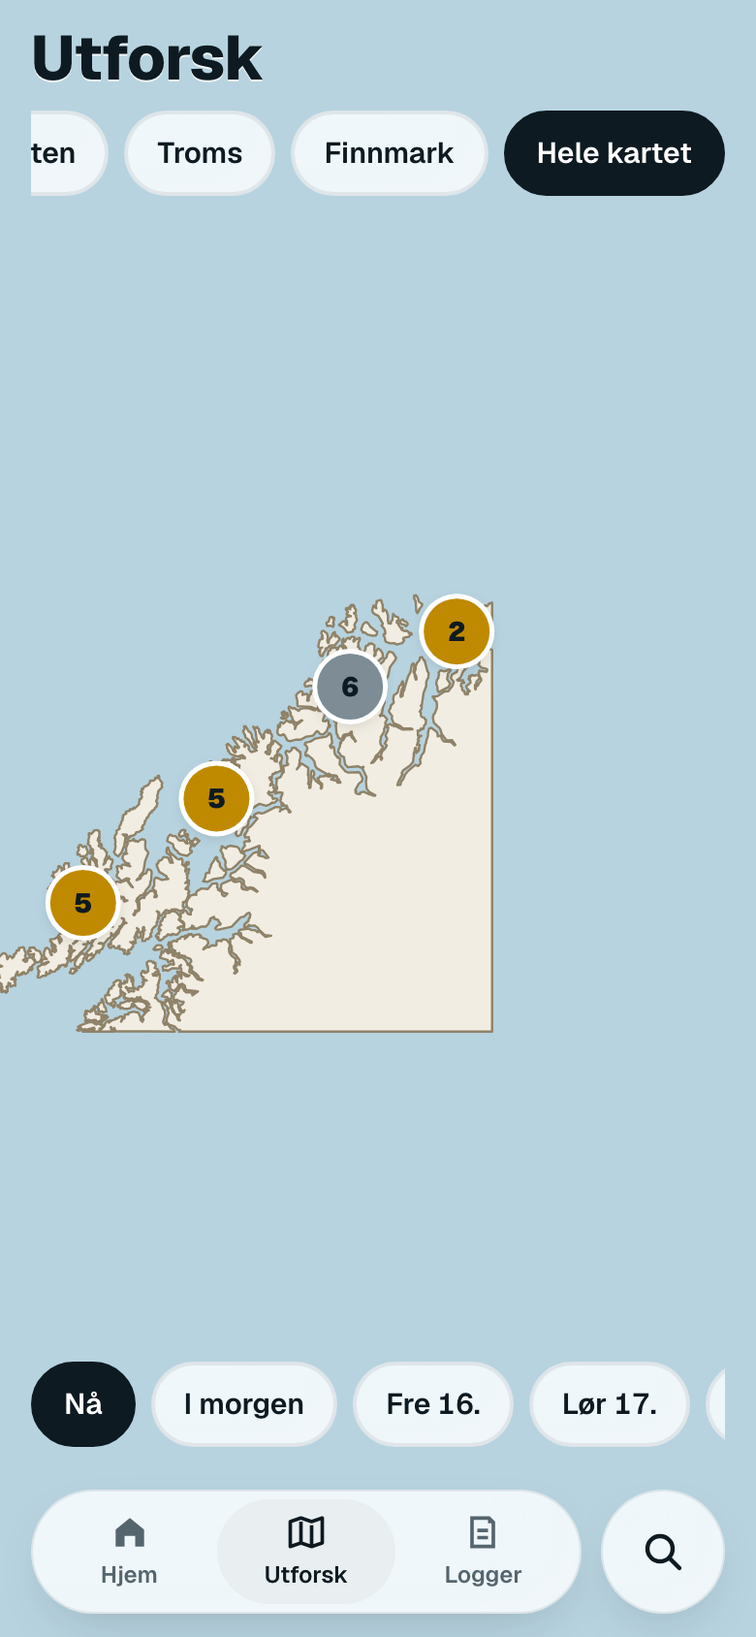
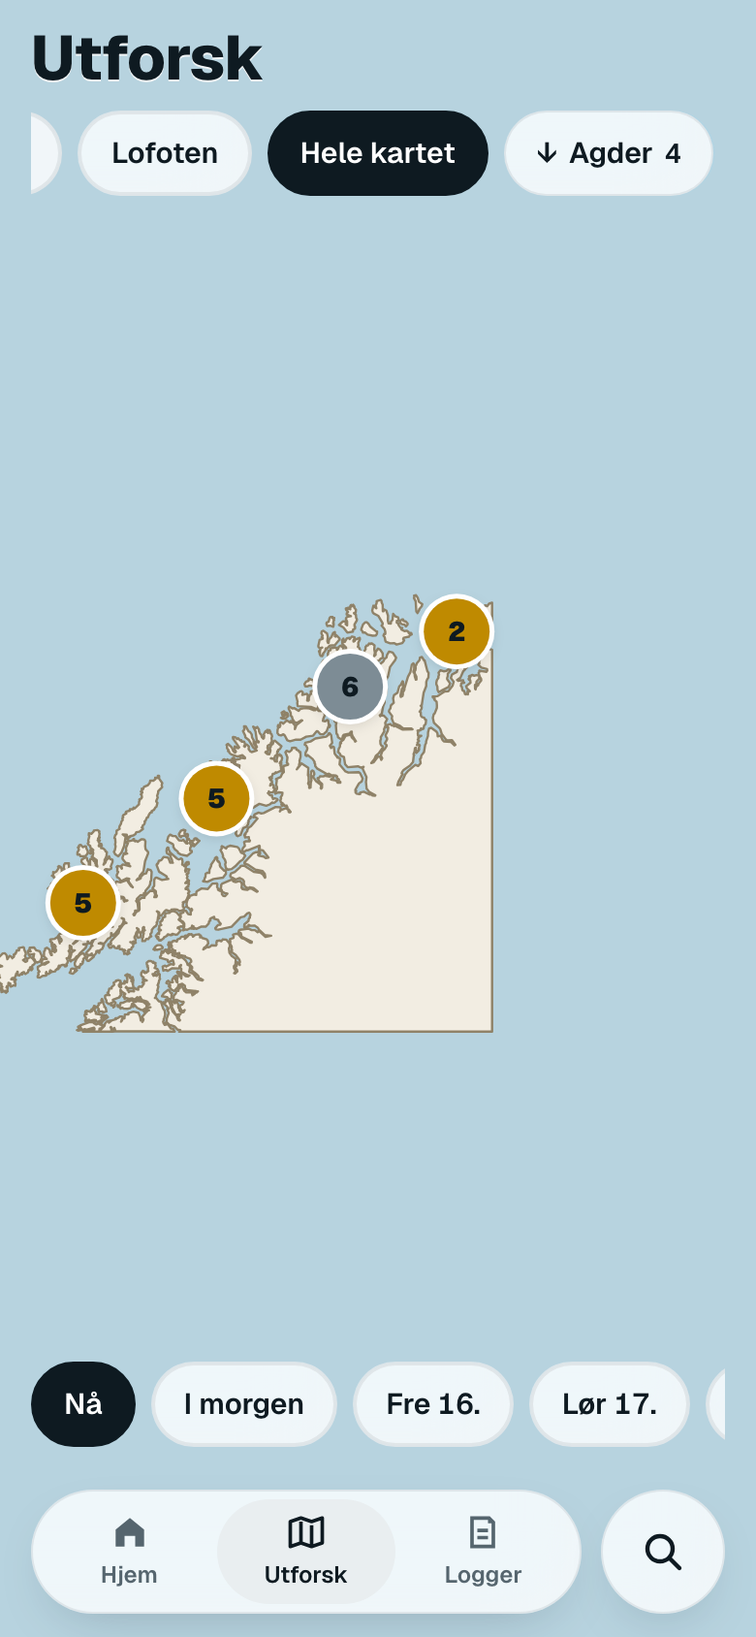
Tillegg 2: Theodors tre rettelser - valgt regionbrikke synlig (nord til sør), «Flatt»/«–» i stedet for 0,0, dagen som er over vises ikke
(a) valgt brikke rulles inn i brikkeraden; syntetiske regioner i spots.json-rekkefølge (nord til sør).
(b) tabellen: mangler → «–», ekte 0 → ordet i grå rute; grafens søyletall aldri 0,0.
(c) publish.py: dag 0 «over» når alle timene igjen er mørke og i morgen har lys (mørketid og hull som før),
    lys_til, 8 døgn i oversikten; appen starter ukeradene/tabellen på i morgen, dagbrikkene i Utforsk etter dato.
Fysikk-kontrollør: IKKE GODKJENT (dagbrikkene, «over» ved hull) → rettet → GODKJENT.

Changed region(s): [[0.2769, 0.0616, 0.9538, 0.1232], [0.0308, 0.0616, 0.2462, 0.1232]]

diff --git a/docs/js/ui.js b/docs/js/ui.js
@@ -63,26 +63,32 @@
     if(!h || h.wind_speed==null) return null;
     return `${nf0.format(h.wind_speed)} m/s${h.wind_type ? " " + windLabel(h) : ""}`;
   }
+  // Dagens lys er over (Theodor 15.10, PR #12 punkt c): «over» fra henteren, eller klokka har passert
+  // siste lyse time (lys_til) siden oversikten ble laget. Da vises ingenting for dagen.
+  const dayOver = (d)=> !!d && (d.status==="over" || (!!d.lys_til && Date.now() >= new Date(d.lys_til).getTime() + 36e5));
+  const UKE_DAGER = 7;
   function weekDays(){
-    // de 7 døgnene oversikten har sammendrag for (fra i dag, norsk tid)
+    // 7 døgn fra i dag (norsk tid); er dagens lys over for alle spots, starter ukeradene på i morgen
     const base = (DATA.spots[0] && DATA.spots[0].dager) || [];
-    return base.map((d, k)=>{ const at = new Date(d.d + "T11:00:00Z"); return {key: d.d, kort: fmtDayShort.format(at).replace(/\.$/, "").slice(0, 2).toLowerCase(), dato: at.getUTCDate(), lang: fmtDay.format(at), idag: k===0}; });
+    const skip = base.length > UKE_DAGER && DATA.spots.every(s=> dayOver((s.dager || [])[0])) ? 1 : 0;
+    return base.slice(skip, skip + UKE_DAGER).map((d, j)=>{ const k = j + skip; const at = new Date(d.d + "T11:00:00Z"); return {key: d.d, kort: fmtDayShort.format(at).replace(/\.$/, "").slice(0, 2).toLowerCase(), dato: at.getUTCDate(), lang: fmtDay.format(at), idag: k===0}; });
   }
   function dayBest(s, key){
-    // dagssammendraget fra publish.best_hour(): «miss» = tallet/lyset mangler, «dark» = mørkt hele dagen
+    // dagssammendraget fra publish.best_hour(): «miss» = tallet/lyset mangler, «dark» = mørkt hele dagen, «over» = dagens lys er over
     const d = (s.dager || []).find(x=>x.d===key);
+    if(dayOver(d)) return {cls:"over", st:null, h:null, t:null};
     if(d && d.status==="dark") return {cls:"dark", st:null, h:null, t:null};   // før !d.h - en mørk dag har ingen time
     if(!d || d.status==="miss" || !d.h) return {cls:"miss", st:null, h:null, t:null};
     const st = stars(d.h);
     return {cls:`r-${min5(st)}`, st, h:d.h, t:d.h.t, start:d.start || d.h.t, slutt:d.slutt || d.h.t, lo:d.lo, hi:d.hi};
   }
   function ukeHtml(s, days, withLetters){
-    const cells = days.map(d=>{ const b = dayBest(s, d.key); const n = b.st!=null && b.st>=1 ? b.st : ""; const title = b.cls==="miss" ? `${d.lang}: mangler data` : b.cls==="dark" ? `${d.lang}: mørkt` : `${d.lang}: ${b.st} ${b.st===1?"stjerne":"stjerner"}`; return `<i class="${b.cls}" title="${esc(title)}">${n}</i>`; }).join("");
-    const letters = withLetters ? days.map((d, k)=>`<b class="${k===0?"idag":""}">${esc(d.kort)}</b>`).join("") : "";
+    const cells = days.map(d=>{ const b = dayBest(s, d.key); const n = b.st!=null && b.st>=1 ? b.st : ""; const title = b.cls==="over" ? `${d.lang}: dagens lys er over` : b.cls==="miss" ? `${d.lang}: mangler data` : b.cls==="dark" ? `${d.lang}: mørkt` : `${d.lang}: ${b.st} ${b.st===1?"stjerne":"stjerner"}`; return `<i class="${b.cls}" title="${esc(title)}">${n}</i>`; }).join("");
+    const letters = withLetters ? days.map((d, k)=>`<b class="${d.idag?"idag":""}">${esc(d.kort)}</b>`).join("") : "";
     return `<span class="uke" aria-hidden="true">${letters}${cells}</span>`;
   }
   function ukeAria(s, days){
-    return days.map(d=>{ const b = dayBest(s, d.key); return b.cls==="miss" ? `${cap(d.lang)} mangler data` : b.cls==="dark" ? `${cap(d.lang)} mørkt` : `${cap(d.lang)} ${b.st} ${b.st===1?"stjerne":"stjerner"}`; }).join(", ");
+    return days.map(d=>{ const b = dayBest(s, d.key); return b.cls==="over" ? `${cap(d.lang)}: dagens lys er over` : b.cls==="miss" ? `${cap(d.lang)} mangler data` : b.cls==="dark" ? `${cap(d.lang)} mørkt` : `${cap(d.lang)} ${b.st} ${b.st===1?"stjerne":"stjerner"}`; }).join(", ");
   }
   function bestNow(s){ const h = naaOf(s); return {st: stars(h), hh: h ? (h.surf_height||0) : 0}; }
   const byRatingNow = (a, b)=>{ const x = bestNow(a), y = bestNow(b); return y.st - x.st || y.hh - x.hh || a.name.localeCompare(b.name, "nb"); };
@@ -101,6 +107,7 @@
     let best = null;
     for(const s of spots) for(const [k, d] of (s.dager || []).slice(0, 3).entries()){
       if(d.status!=="ok" || !d.h || stars(d.h) < 1) continue;
+      if(new Date(d.slutt || d.h.t).getTime() + 36e5 <= Date.now()) continue;   // vinduet er over siden oversikten ble laget (fysikk-kontrollør 15.10)
       const c = {s, d, st: stars(d.h), hh: d.h.surf_height||0, k};
       if(!best || c.st > best.st || (c.st===best.st && c.hh > best.hh)) best = c;
     }
@@ -108,7 +115,7 @@
   }
   function nextPossibility(spots){
     let first = null;
-    for(const s of spots) for(const d of (s.dager || [])){ if(d.status==="ok" && d.h && stars(d.h) >= 1){ const t = new Date(d.h.t).getTime(); if(!first || t < first.t) first = {s, d, t}; break; } }
+    for(const s of spots) for(const d of (s.dager || [])){ if(d.status==="ok" && d.h && stars(d.h) >= 1 && new Date(d.slutt || d.h.t).getTime() + 36e5 > Date.now()){ const t = new Date(d.h.t).getTime(); if(!first || t < first.t) first = {s, d, t}; break; } }
     return first;
   }
   function nextBest(spots, exclude, n){
@@ -172,7 +179,7 @@
     const sorted = [...g.spots].sort(byRatingNow);
     const shown = all ? sorted : sorted.slice(0, 5);
     const id = "reg-" + norm(g.region).replace(/[^a-z0-9]+/g, "-");
-    return `<section class="gruppe" id="${id}"><div class="gruppe-topp"><h3>${esc(g.region)}<small>${n} ${n===1?"spot":"spots"}</small></h3><span class="uke" aria-hidden="true">${days.map((d, k)=>`<b class="${k===0?"idag":""}">${esc(d.kort)}</b>`).join("")}</span></div>
+    return `<section class="gruppe" id="${id}"><div class="gruppe-topp"><h3>${esc(g.region)}<small>${n} ${n===1?"spot":"spots"}</small></h3><span class="uke" aria-hidden="true">${days.map(d=>`<b class="${d.idag?"idag":""}">${esc(d.kort)}</b>`).join("")}</span></div>
       <div class="rader">${shown.map(s=>radHtml(s, days)).join("")}</div>
       ${!all ? `<button type="button" class="ghost visalle" data-region="${esc(g.region)}">Vis alle ${n}</button>` : ""}</section>`;
   }
@@ -185,7 +192,7 @@
   function tabellHtml(days){
     // nett: regionfilter over tabellen, grupper per region med «Vis alle» per gruppe, overskriftsraden står fast
     const filt = S.tabellRegion;
-    const head = `<thead><tr><th>Spot</th><th>Nå</th>${days.map((d, k)=>`<th class="dag">${k===0 ? "I dag" : esc(cap(d.kort))}<small>${d.dato}.</small></th>`).join("")}</tr></thead>`;
+    const head = `<thead><tr><th>Spot</th><th>Nå</th>${days.map(d=>`<th class="dag">${d.idag ? "I dag" : esc(cap(d.kort))}<small>${d.dato}.</small></th>`).join("")}</tr></thead>`;
     const body = groups().filter(g=> !filt || g.region===filt).map(g=>{
       const n = g.spots.length, all = S.visAlle[g.region] || n <= 8;
       const rows = [...g.spots].sort(byRatingNow).slice(0, all ? n : 5);
@@ -193,9 +200,15 @@
         rows.map(s=>{
           const h = naaOf(s), st = stars(h), oh = ordOgHoyde(h);
           const cells = days.map(d=>{ const b = dayBest(s, d.key);
+            if(b.cls==="over") return `<td class="c"><span class="celle over" title="${esc(d.lang)}: dagens lys er over"></span></td>`;
             if(b.cls==="miss") return `<td class="c"><span class="celle miss" title="${esc(d.lang)}: mangler data">–</span></td>`;
             if(b.cls==="dark") return `<td class="c"><span class="celle miss" title="${esc(d.lang)}: mørkt">–</span></td>`;
-            const hv = b.hi!=null ? b.hi : (b.h && b.h.surf_height!=null ? b.h.surf_height : null); const hh = hv!=null ? nf1.format(hv) : "–";
+            // grunnregelen (PR #12 punkt b): tallet mangler → «–»; ekte 0 (flatt, treffer ikke …) → ordet i grå rute, aldri «0,0»
+            const v = b.hi!=null && b.hi > 0 ? {a: b.hi} : (window.Spot ? Spot.visHoyde(b.h) : (b.h && b.h.surf_height!=null ? {a: b.h.surf_height} : null));
+            // som Surf-kortet på spotsiden: «–» bare når surf_height mangler; kjent høyde uten pålitelig tall (regel (c): flatt, treffer ikke) → ordet
+            if(!v && (!b.h || b.h.surf_height==null)) return `<td class="c"><span class="celle miss" title="${esc(d.lang)}: mangler høyde">–</span></td>`;
+            if(!v || (!(v.a > 0) && !(b.st >= 1))){ const ord = ratingWord(b.h); return `<td class="c"><span class="celle null" title="${esc(`${d.lang}: ${ord}`)}">${esc(ord)}</span></td>`; }
+            const hh = nf1.format(v.a);
             return `<td class="c"><span class="celle r-${min5(b.st)}" title="${esc(`${d.lang}: ${b.st} ${b.st===1?"stjerne":"stjerner"}, ${hh} m`)}">${esc(hh)}${b.st>=1 ? `<small>★${b.st}</small>` : ""}</span></td>`; }).join("");
           return `<tr class="s r-${min5(st)}" data-spot="${esc(s.id)}" tabindex="0" aria-label="${esc(`Åpne ${s.name}: ${oh.ord}${oh.hoyde ? ", " + oh.hoyde + " m" : ""}. ${ukeAria(s, days)}`)}"><td class="nm"><b>${esc(s.name)}</b><small>${esc(s.area||"")}</small></td><td class="na r-${min5(st)}"><span class="ord">${esc(oh.ord)}</span>${oh.hoyde ? `<span class="num">${esc(oh.hoyde)} m</span>` : ""}</td>${cells}</tr>`;
         }).join("");
@@ -222,6 +235,8 @@
     $$(".visalle", root).forEach(b=> b.onclick = ()=>{ S.visAlle[b.dataset.region] = true; renderHome(); });
     $$("[data-region]", root).forEach(b=>{ if(b.classList.contains("chip")) b.onclick = ()=>{ setRegion(b.dataset.region); renderHome(); }; });
     $$("[data-tabellregion]", root).forEach(b=> b.onclick = ()=>{ S.tabellRegion = b.dataset.tabellregion || null; renderHome(); });
+    // valgt regionbrikke alltid synlig (PR #12 punkt a): rull brikkeraden sidelengs, aldri siden
+    $$(".regionvelger", root).forEach(row=>{ const c = row.querySelector('[aria-pressed="true"]'); if(c && row.scrollWidth > row.clientWidth){ row.scrollLeft = Math.max(0, c.offsetLeft - row.offsetLeft - (row.clientWidth - c.offsetWidth) / 2); } });
     $$("table.spots tr.s", root).forEach(tr=>{ tr.onclick = ()=> openSpot(tr.dataset.spot); tr.onkeydown = (e)=>{ if(e.key==="Enter" || e.key===" "){ e.preventDefault(); openSpot(tr.dataset.spot); } }; });
   }
 

diff --git a/docs/js/utforsk.js b/docs/js/utforsk.js
@@ -15,7 +15,12 @@
   const min5 = (n)=> Math.min(5, n||0);
 
   function dayChips(){
-    return H().weekDays().map((d, k)=>({key: k===0 ? null : d.key, label: k===0 ? "Nå" : k===1 ? "I morgen" : `${cap(fmtWd.format(new Date(d.key + "T11:00:00Z")).replace(/\.$/, ""))} ${d.dato}.`, lang: d.lang}));
+    // «Nå» er alltid første brikke; «I morgen» og datoene settes ut fra datoen, ikke posisjonen - etter mørket
+    // starter weekDays() på i morgen (PR #12 punkt c; fysikk-kontrollør 15.10)
+    const days = H().weekDays(), base = (DATA.spots[0] && DATA.spots[0].dager) || [];
+    const tomorrow = base[1] && base[1].d;
+    const out = days.length && days[0].idag ? [] : [{key: null, label: "Nå", lang: "nå"}];
+    return out.concat(days.map(d=>({key: d.idag ? null : d.key, label: d.idag ? "Nå" : d.key===tomorrow ? "I morgen" : `${cap(fmtWd.format(new Date(d.key + "T11:00:00Z")).replace(/\.$/, ""))} ${d.dato}.`, lang: d.lang})));
   }
   // verdi per spot for valgt dag: nå = nå-timen; ellers dagens beste dagslystime (publish.best_hour)
   function valueFor(s, dayKeyOrNull){
@@ -70,6 +75,7 @@
       + [...offBy.entries()].map(([k, ps])=>`<button type="button" class="chip dashed" data-off="${esc(k)}" aria-label="${esc(`${k}: ${ps.length} ${ps.length===1 ? "spot" : "spots"} utenfor kartet - vis lista`)}"><span aria-hidden="true">↓</span> ${esc(k)}${ps.length > 1 ? ` <span class="num">${ps.length}</span>` : ""}</button>`).join("");
     $$("#utforskChips [data-view]").forEach(b=> b.onclick = ()=>{ S.utforskView = b.dataset.view || null; S.picked = null; renderChips(); const e = viewExtent(); if(e) Kart.setExtent(e, true); Kart.setSelected(null); renderKort(); renderListe(); });
     $$("#utforskChips [data-off]").forEach(b=> b.onclick = ()=>{ S.offRegion = b.dataset.off; renderKort(); });
+    { const row = $("#utforskChips"), c = row && row.querySelector('[aria-pressed="true"]'); if(c && row.scrollWidth > row.clientWidth) row.scrollLeft = Math.max(0, c.offsetLeft - row.offsetLeft - (row.clientWidth - c.offsetWidth) / 2); }   // valgt brikke synlig (PR #12 punkt a)
     const chips = dayChips();
     $("#dagChips").innerHTML = chips.map(c=>`<button type="button" class="chip" data-day="${c.key||""}" aria-pressed="${(S.utforskDay||"")===(c.key||"")}" aria-label="${esc(c.key ? cap(c.lang) : "Nå")}">${esc(c.label)}</button>`).join("");
     $$("#dagChips .chip").forEach(b=> b.onclick = ()=>{ S.utforskDay = b.dataset.day || null; $$("#dagChips .chip").forEach(x=>x.setAttribute("aria-pressed", String(x===b))); Kart.redraw(); renderKort(); renderListe(); });

diff --git a/docs/css/ui.css b/docs/css/ui.css
@@ -187,6 +187,7 @@ h1,h2,h3{margin:0;font-family:var(--display);letter-spacing:-.01em}
 .uke i.r-0{background:transparent;color:transparent;box-shadow:inset 0 0 0 1px var(--line-strong)}
 .uke i.miss{background:transparent;color:transparent;border:1px dashed var(--line-strong)}
 .uke i.dark{background:transparent;color:transparent;box-shadow:inset 0 0 0 1px var(--line)}
+.uke i.over{background:transparent;color:transparent;box-shadow:none;border:0}
 .uke b{color:var(--muted);font-family:var(--body);font-size:0.6875rem;font-weight:600;height:1rem}
 .uke b.idag{color:var(--ink)}
 .stars .st.f{fill:var(--rc);stroke:var(--rc-ink);stroke-width:1;stroke-dasharray:none;opacity:.32}   /* tapt stjerne: dempet fyll, ikke stiplet (Theodor 15.10); aria sier «tapt på vind eller tidevann» */
@@ -472,6 +473,8 @@ h1,h2,h3{margin:0;font-family:var(--display);letter-spacing:-.01em}
   .celle small{font-size:0.6875rem}
   .celle.r-0{background:transparent;color:var(--ink);box-shadow:inset 0 0 0 1px var(--line-strong)}
   .celle.miss{background:transparent;color:var(--muted);border:1px dashed var(--line-strong)}
+  .celle.null{background:var(--sunken);color:var(--muted);font-family:var(--body);font-size:0.6875rem;font-weight:600;white-space:nowrap}
+  .celle.over{background:transparent;box-shadow:none}
   .utforskkort{position:relative;overflow:hidden;min-height:260px;padding:0;background:var(--sea)}
   .utforskkort .knapp{position:absolute;left:14px;bottom:14px}
   .utforskkort svg{width:100%;height:100%;display:block}

diff --git a/docs/js/spotgraf.js b/docs/js/spotgraf.js
@@ -120,7 +120,7 @@
       // tallet mangler (også for en «kjent» time med low_reason men uten høyde): stiplet, aldri en 0-søyle
       const miss = !known || h.surf_height==null;
       // tallet på valgt søyle følger regel (c) (Spot.visHoyde: blåst ut/stormsjø viser BarentsWatch-høyden) - samme tall som aria og topptekst
-      const vh = h ? Spot.visHoyde(h) : null; const tall = vh ? nf1.format(vh.b!=null ? vh.b : vh.a) : null;
+      const vh = h ? Spot.visHoyde(h) : null; const tv = vh ? (vh.b!=null ? vh.b : vh.a) : null; const tall = tv!=null && tv > 0 ? nf1.format(tv) : null;   // aldri «0,0» (PR #12 punkt b)
       const hs = h && h.surf_height!=null ? h.surf_height : 0, sets = h && h.surf_height_sets!=null ? Math.max(0, h.surf_height_sets - hs) : 0;
       const bar = !h ? "" : miss ? `<span class="b miss" style="height:3px"></span>`
         : `<span class="b r-${Math.min(5,st)}" style="height:${Math.max(hs>0?3:2, hs/scaleMax*H_PX).toFixed(1)}px">${sets>0 ? `<span class="sets" style="height:${(sets/scaleMax*H_PX).toFixed(1)}px"></span>` : ""}${c.i===selIdx && tall ? `<span class="tall">${tall}</span>` : ""}</span>`;

diff --git a/docs/sw.js b/docs/sw.js
@@ -4,7 +4,7 @@
 // hånd. Må stemme med filene, ellers oppdager ikke nettleseren at
 // sw.js-scriptet er likt som før og lar være å hente nytt innhold, sjøl om
 // siden er pushet (se CLAUDE.md sin arbeidsmåte og STATUS.md, 26.09-03.10.2026).
-const CACHE = "nordsurf-e4d7cc36fdb7";
+const CACHE = "nordsurf-845c929484b0";
 const SHELL = ["./", "index.html", "manifest.webmanifest", "icon.svg",
   "css/app.css", "css/kart.css",
   "js/strings.js", "js/wordmark.js", "js/explain.js", "js/app.js", "js/kart.js", "js/front.js", "js/auth.js",

diff --git a/fetcher/test_skalering_browser.py b/fetcher/test_skalering_browser.py
@@ -130,6 +130,19 @@ def main():
                 if mobile:
                     assert n_rows == min(troms, 5) or n_rows == troms, (n_rows, troms)
                     assert page.text_content("#viewHjem").count("Spots i Troms") == 1
+                # PR #12 punkt a: valgt regionbrikke synlig, rekkefølge som oversikt.regions (spots.json, nord til sør)
+                chip = page.evaluate("""() => { const row = document.querySelector('#viewHjem .regionvelger'); const c = row && row.querySelector('[aria-pressed="true"]');
+                    if(!c) return null; const r = row.getBoundingClientRect(), b = c.getBoundingClientRect();
+                    return {txt: c.textContent.trim(), inside: b.left >= r.left - 1 && b.right <= r.right + 1,
+                            order: [...row.querySelectorAll('.chip')].map(x => x.textContent.trim()).filter(t => t !== 'Alle')}; }""")
+                assert chip and (mobile and chip["txt"] == "Troms" or not mobile) and chip["inside"], f"valgt regionbrikke ikke synlig ({label}): {chip}"
+                assert chip["order"] == [r["name"] for r in overview["regions"]] and chip["order"][0] == "Finnmark", chip["order"]
+                # PR #12 punkt b/c: aldri «0,0» i ukerutene/tabellen; dagens lys er over kl. 22:10 → ingen «I dag»-kolonne
+                txt = page.evaluate("[...document.querySelectorAll('#viewHjem .uke i, #viewHjem .celle, #viewHjem .rad .na, #viewHjem td.na')].map(e => e.textContent.trim())")
+                assert not any(t in ("0,0", "0") or t.startswith("0,0") for t in txt), [t for t in txt if t.startswith("0")][:5]
+                heads = page.evaluate("[...document.querySelectorAll('#viewHjem table.spots thead th.dag, #viewHjem .gruppe-topp .uke b')].map(e => e.textContent.trim())")
+                assert heads and not any(h.startswith("I dag") for h in heads) and not page.query_selector("#viewHjem .uke b.idag, #viewHjem .uke i.over"), heads[:8]
+                print(f"PR #12 a-c ({label}): valgt brikke «{chip['txt']}» synlig, rekkefølge nord-sør, ingen «0,0», tabellen starter på i morgen etter mørket - OK")
                 shot("hjem")
                 # 8. nett-tabellen: regionfilter, «Vis alle», sticky
                 if not mobile:
@@ -165,6 +178,10 @@ def main():
                         const out = []; for(let i=0;i<els.length;i++) for(let j=i+1;j<els.length;j++){ const a = els[i].r, c = els[j].r;
                           if(a.left < c.right - 2 && a.right > c.left + 2 && a.top < c.bottom - 2 && a.bottom > c.top + 2) out.push([els[i].id, els[j].id]); } return out; }""")
                     assert not bad, f"overlappende merkelapper ({label}, {where}): {bad[:6]}"
+                # dagbrikkene etter mørket (T0 kl. 22:10): «Nå» først, så «I morgen» = dagen etter oversiktens første dag
+                dchips = page.evaluate("[...document.querySelectorAll('#dagChips .chip')].map(b => [b.textContent.trim(), b.dataset.day])")
+                d1 = overview["spots"][0]["dager"][1]["d"]
+                assert dchips[0] == ["Nå", ""] and dchips[1] == ["I morgen", d1] and len(dchips) == 8, dchips
                 page.click("#utforskChips [data-view='']"); page.wait_for_timeout(900); pills_ok("hele kartet"); shot("utforsk-hele")
                 n_cl = int(page.evaluate("document.querySelector('#markersLayer').dataset.clusters || '0'"))
                 reg_chip = page.query_selector("#utforskChips [data-view='Troms']")

diff --git a/fetcher/publish.py b/fetcher/publish.py
@@ -85,7 +85,7 @@ NAA_FIELDS = ("t", "stars", "faded", "light", "daylight", "surf_height", "surf_h
               "energy_total_kj", "swell_model", "local_rules",   # ordet ved 0 stjerner (zeroCause) og kjText trenger disse
               "wind_speed", "wind_type", "wind_dir", "swell_offshore", "dir_offshore", "gust", "zone")
 BW_WHEN = ("blown_out", "stormsjo")   # regel (c), app.js heightMForDisplay
-SUMMARY_DAYS = 7
+SUMMARY_DAYS = 8   # 8 døgn: når dagens lys er over, starter appens 7 ruter på i morgen (nattjobben 15.10, PR #12 punkt c)
 NAA_HOURS = 4   # nå-timen + de tre neste (henteren kjører hver 3. time - klokkas time finnes alltid)
 # spotfeltene forsiden/Utforsk/søket trenger - resten av meta ligger i detaljfila (spotsiden)
 META_FIELDS = ("id", "name", "area", "region", "aliases", "spot", "status", "facing", "enabled", "local_rules", "calibration")
@@ -214,7 +214,18 @@ def summarise(hours, now, days=SUMMARY_DAYS):
     for k in range(days):
         d = today + timedelta(days=k)
         hs = [h for h in by_day.get(d, []) if _t(h) + timedelta(hours=1) > now]
-        summ = day_summary(hs) if hs else {"status": "miss"}
+        lyse = lambda hh: [h for h in hh if _light(h) not in (None, "mørkt")]
+        if k == 0 and hs and all(_light(h) == "mørkt" for h in hs) and lyse(by_day.get(d + timedelta(days=1), [])):
+            # dagens lys er over (Theodor 15.10, PR #12 punkt c): alle timene igjen i dag er mørke (hull eller
+            # ukjent lys er fortsatt «miss» - grunnregelen, fysikk-kontrollør 15.10), og i morgen
+            # har lys (ikke mørketid - da er dagen «mørkt» som før). Varselet starter ved kjøringen, så
+            # dagens tidligere lyse timer finnes ikke i dataene. «over», ikke «mørkt»/«mangler» - appen
+            # viser ingenting for dagen og starter på neste dag med dagslys.
+            summ = {"status": "over"}
+        else:
+            summ = day_summary(hs) if hs else {"status": "miss"}
+            if k == 0 and lyse(hs):
+                summ["lys_til"] = lyse(hs)[-1]["t"]   # siste lyse time i dag - appen regner dagen som over etter den
         summ["d"] = d.isoformat()
         dager.append(summ)
     return {"naa": [_naa_hour(h) for h in naa], "dager": dager}

diff --git a/fetcher/test_publish.py b/fetcher/test_publish.py
@@ -89,7 +89,22 @@ def main():
         for day in o["dager"]:
             hs = [h for h in s["hours"] if t_of(h).astimezone(OSLO).date().isoformat() == day["d"] and t_of(h) + dt.timedelta(hours=1) > now]
             b, st = publish.best_hour(hs) if hs else (None, "miss")
+            if day["status"] == "over":   # dagens lys er over (PR #12 punkt c): bare i dag, ingen lyse timer igjen, lys i morgen
+                assert day["d"] == o["dager"][0]["d"] and st == "dark" and o["dager"][1]["status"] != "dark", (s["id"], day)
+                continue
             assert day["status"] == st and (b is None or day["h"]["t"] == b["t"]), (s["id"], day["d"], st, b and b["t"])
+    over = sum(1 for o in overview["spots"] if o["dager"][0]["status"] == "over")
+    assert over == len(overview["spots"]), f"varselet starter kl. 21 norsk tid 14.10 - dagens lys er over for alle spots ({over})"
+    # mørketid: ingen lys i dag eller i morgen → «dark», ikke «over»
+    dark_fc = {**fc, "spots": [{**fc["spots"][0], "hours": [{**h, "light": "mørkt", "daylight": False} for h in fc["spots"][0]["hours"]]}]}
+    d0dark = publish.summarise(dark_fc["spots"][0]["hours"], now)["dager"][0]
+    assert d0dark["status"] == "dark", d0dark
+    # hull eller ukjent lys resten av dagen er «miss», aldri «over» (grunnregelen)
+    unk_hours = [{**h, "light": None, "daylight": None} if t_of(h).astimezone(OSLO).date() == now.astimezone(OSLO).date() else h for h in fc["spots"][0]["hours"]]
+    assert publish.summarise(unk_hours, now)["dager"][0]["status"] == "miss"
+    gap_hours = [h for h in fc["spots"][0]["hours"] if t_of(h).astimezone(OSLO).date() != now.astimezone(OSLO).date()]
+    assert publish.summarise(gap_hours, now)["dager"][0]["status"] == "miss"
+    print("2b: dagens lys er over → «over» (alle spots kl. 21), mørketid → «dark» - OK")
     print("2: best_hour()/day_summary() - flest stjerner, likt -> høyest surf, bare lys, ukjent lys teller ikke, miss/dark, spenn bare fra timer over 0 - OK")
 
     # 3. detaljfilene: hele meta + alle timene

diff --git a/fetcher/test_spotside_browser.py b/fetcher/test_spotside_browser.py
@@ -342,7 +342,7 @@ def main():
                     miss_cells = page.evaluate("""() => { const rad = [...document.querySelectorAll('#viewHjem a.rad, #viewHjem table.spots tr')].find(r => r.textContent.includes('Steinkrøssa'));
                         return rad ? [...rad.querySelectorAll('.uke i, td.celle, .celle')].map(c => ({cls: c.className, txt: c.textContent.trim()})) : null; }""")
                     assert miss_cells, "fant ikke Steinkrøssa på Hjem"
-                    cell = miss_cells[5]
+                    cell = miss_cells[4]   # T0 er kl. 22:10 - dagens lys er over, ukeradene starter i morgen (PR #12 punkt c), så dag 5 er rute 4
                     assert "miss" in cell["cls"] and cell["txt"] in ("", "–"), f"dagen uten tall skal være stiplet uten tall på Hjem: {cell}"
                     shot("hjem", scheme); audit("hjem")
                     # ---- 5. søk ----

diff --git a/fetcher/synthetic_spots.py b/fetcher/synthetic_spots.py
@@ -55,7 +55,8 @@ def make(forecast, n=100, seed=1):
         spots.append(src)
     out["spots"] = spots
     regions = []
-    for name in dict.fromkeys(s["region"] for s in spots):
+    # rekkefølgen som i spots.json sin «regions»: nord til sør (nattjobben 15.10, PR #12 punkt a)
+    for name in [r for _, r in sorted(REGIONS, reverse=True) if any(s["region"] == r for s in spots)]:
         regions.append({"name": name, "order": len(regions) + 1})
     return out, regions
 
